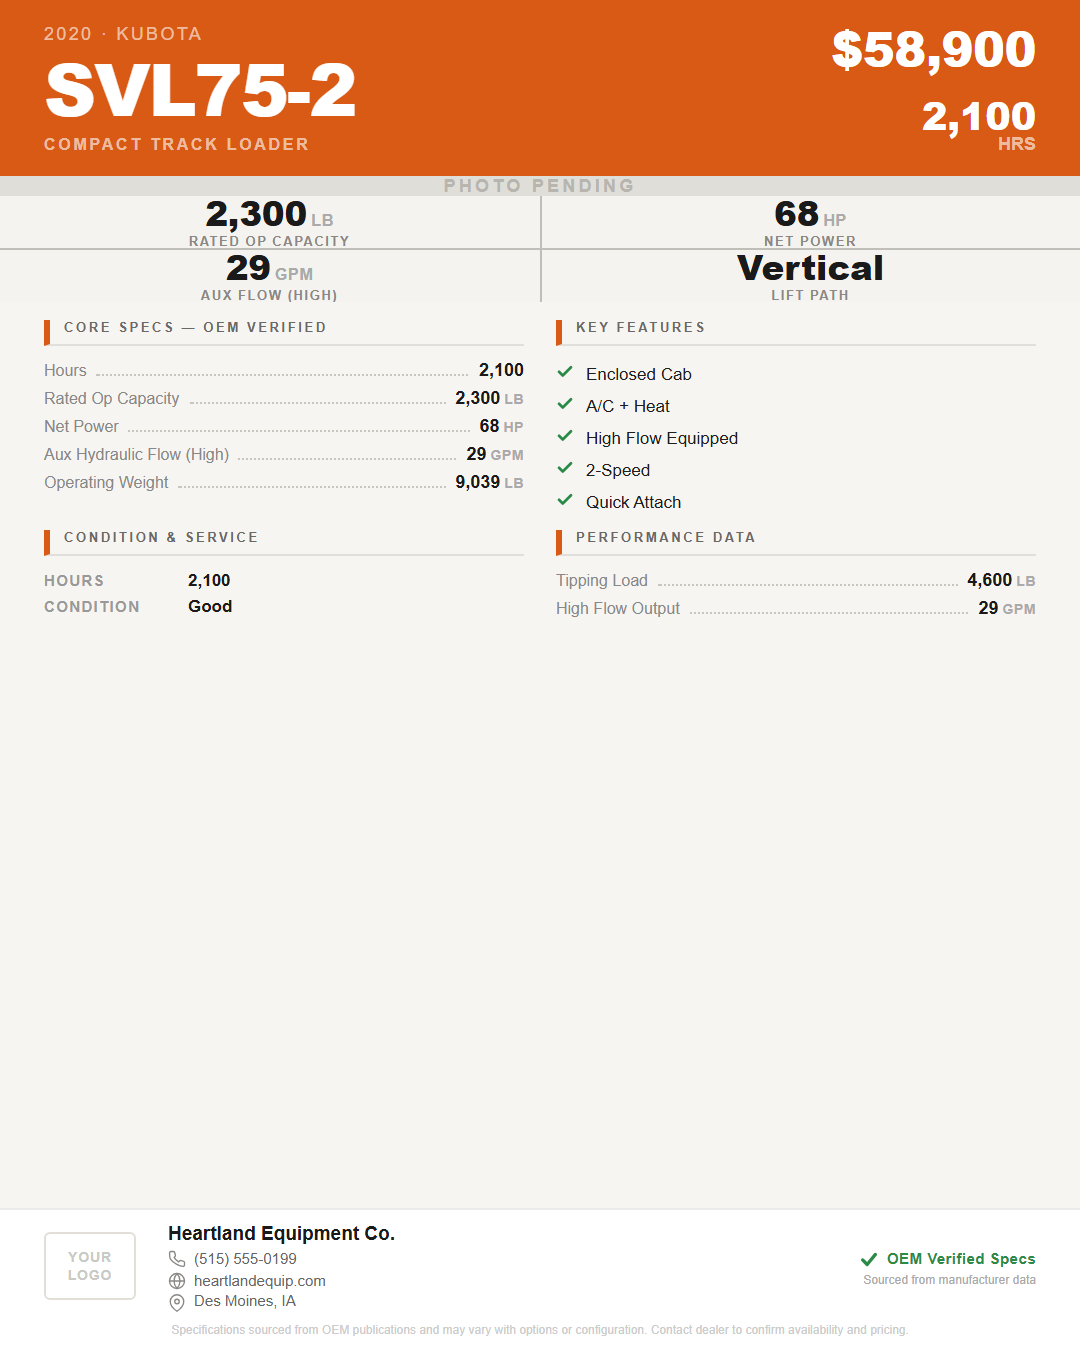
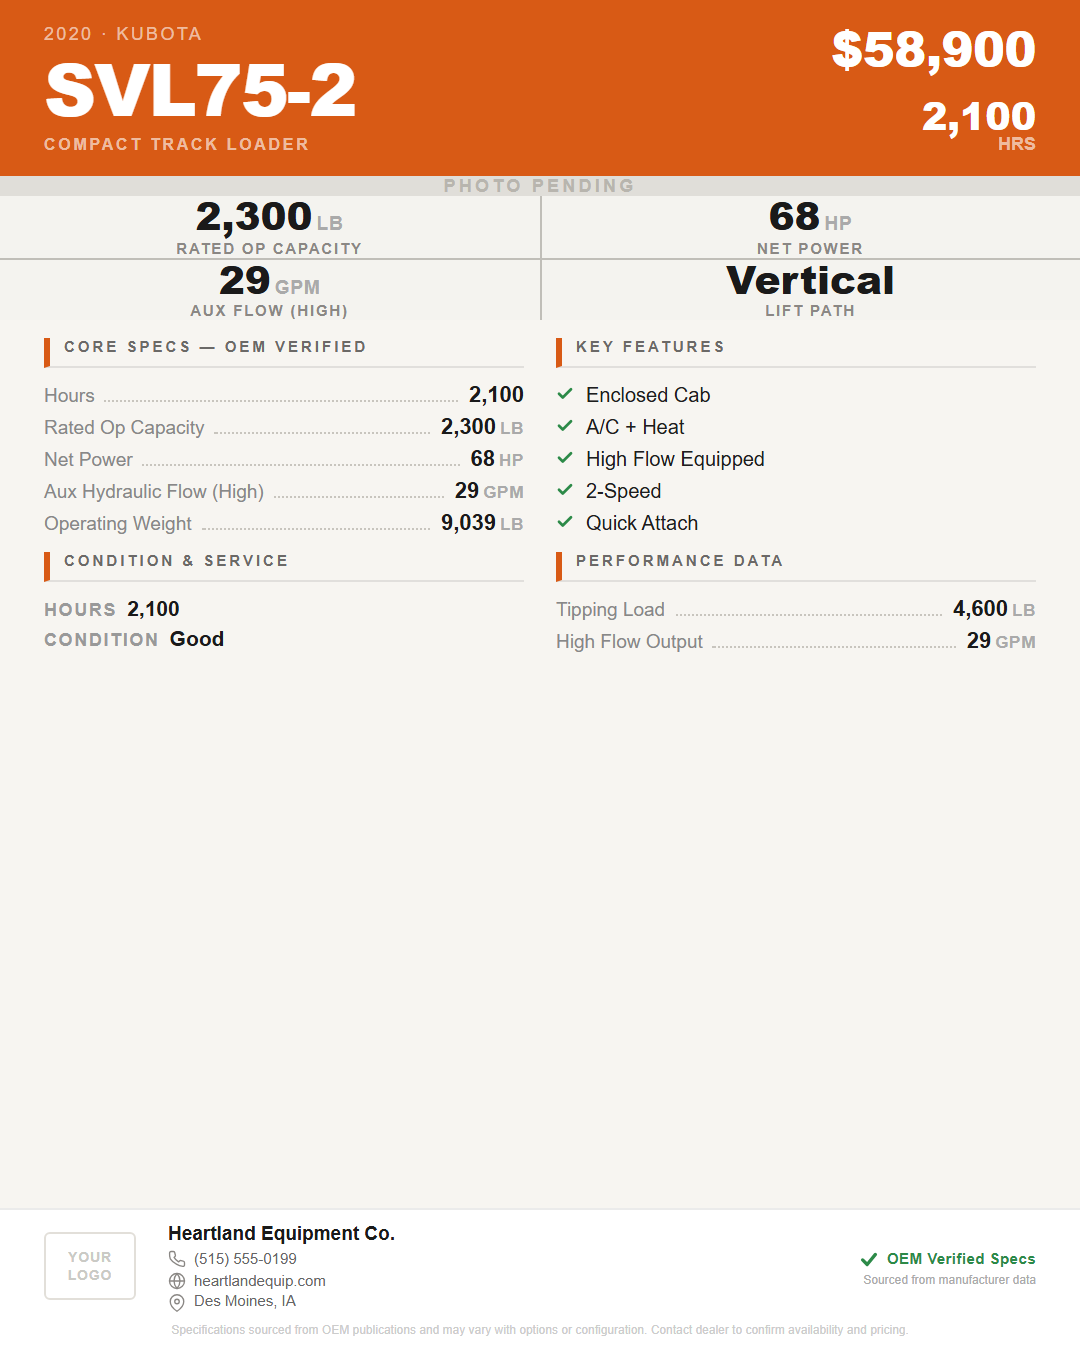
Increase spec sheet body typography scale
+15%: section headers, hero values, hero units, hero labels
+20%: spec row labels/values/units, feature list items, condition row labels/values
Remove fixed 72px cond-lbl width; use margin-right:5px to support full Track % Remaining label

diff --git a/spec_sheet_renderer.py b/spec_sheet_renderer.py
@@ -285,15 +285,15 @@ body { background: #fff; display: flex; justify-content: center; align-items: fl
 .photo-hero.no-photo .hero-tile-icon { display: none; }
 .photo-hero.no-photo .hero-tile-text { display: contents; }
 .hero-val {
-  font-size: 17px; font-weight: 800; color: #1A1A1A; line-height: 1;
+  font-size: 19.5px; font-weight: 800; color: #1A1A1A; line-height: 1;
   white-space: nowrap;
 }
 .hero-unit {
-  font-size: 8px; font-weight: 600; color: #AAAAAA;
+  font-size: 9.5px; font-weight: 600; color: #AAAAAA;
   margin-left: 2px; letter-spacing: 0.04em;
 }
 .hero-lbl {
-  font-size: 6.5px; font-weight: 700;
+  font-size: 7.5px; font-weight: 700;
   letter-spacing: 0.12em; text-transform: uppercase;
   color: #8A8784;
   margin-top: 2px;
@@ -337,7 +337,7 @@ body { background: #fff; display: flex; justify-content: center; align-items: fl
 /* ── Section block ── */
 .sec { flex-shrink: 0; }
 .sec-hdr {
-  font-size: 6.5px; font-weight: 700;
+  font-size: 7.5px; font-weight: 700;
   letter-spacing: 0.20em; text-transform: uppercase;
   color: #6B6967;
   padding-bottom: 5px;
@@ -359,7 +359,7 @@ body { background: #fff; display: flex; justify-content: center; align-items: fl
   padding: 1.5px 0;
 }
 .spec-lbl {
-  font-size: 8px; font-weight: 400;
+  font-size: 9.5px; font-weight: 400;
   color: #888888;
   white-space: nowrap; flex-shrink: 0;
 }
@@ -370,12 +370,12 @@ body { background: #fff; display: flex; justify-content: center; align-items: fl
   min-width: 4px;
 }
 .spec-val {
-  font-size: 9px; font-weight: 700;
+  font-size: 11px; font-weight: 700;
   color: #1A1A1A;
   white-space: nowrap; flex-shrink: 0;
 }
 .spec-unit {
-  font-size: 7px; font-weight: 600;
+  font-size: 8.5px; font-weight: 600;
   color: #AAAAAA; text-transform: uppercase;
   letter-spacing: 0.04em; margin-left: 2px;
 }
@@ -384,7 +384,7 @@ body { background: #fff; display: flex; justify-content: center; align-items: fl
 .feat-list { display: flex; flex-direction: column; }
 .feat-item {
   display: flex; align-items: baseline; gap: 6px;
-  font-size: 8.5px; font-weight: 500; color: #1E1E1E;
+  font-size: 10px; font-weight: 500; color: #1E1E1E;
   padding: 2px 0;
 }
 .feat-bullet {
@@ -399,13 +399,13 @@ body { background: #fff; display: flex; justify-content: center; align-items: fl
   padding: 1.5px 0;
 }
 .cond-lbl {
-  font-size: 7.5px; font-weight: 600;
+  font-size: 9px; font-weight: 600;
   color: #999; white-space: nowrap; flex-shrink: 0;
   text-transform: uppercase; letter-spacing: 0.09em;
-  width: 72px;
+  margin-right: 5px;
 }
 .cond-val {
-  font-size: 8.5px; font-weight: 600; color: #1A1A1A;
+  font-size: 10.5px; font-weight: 600; color: #1A1A1A;
 }
 
 /* ── Notes inset block ── */
@@ -723,7 +723,7 @@ def render_spec_sheet(data: dict) -> str:
     if track_pct is not None:
         cond_rows_html += (
             f'<div class="cond-row">'
-            f'<span class="cond-lbl">Track Rem.</span>'
+            f'<span class="cond-lbl">Track % Remaining</span>'
             f'<span class="cond-val">{_esc(str(track_pct))}</span>'
             f'</div>'
         )
